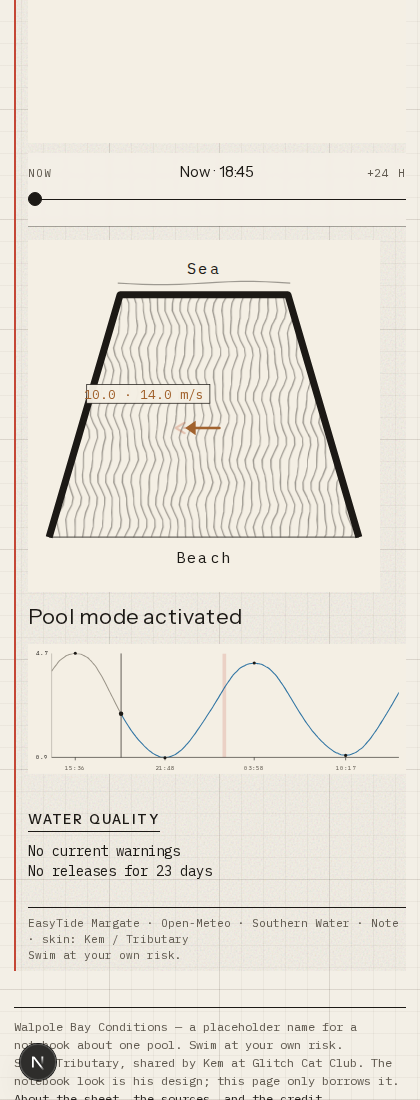
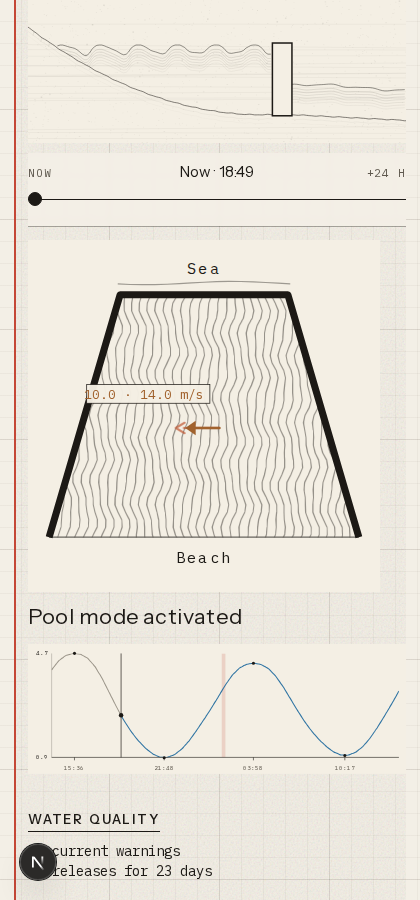
Fix sea crest wash masking and capture section QA properly
Clamp sea-mode wall-span strokes to the crest only, then mask the wall
body with opaque paper and outline after all water ink. Add a Playwright
script that waits for canvas ink before cropping section shots.

diff --git a/components/section-canvas.tsx b/components/section-canvas.tsx
@@ -178,36 +178,31 @@ function paint(
   const shore = waterlineU(still) ?? 0;
   const motion = chopMotion(section.chopLevel, 1);
 
-  const band = (u0: number, u1: number) => {
-    if (u1 - u0 < 0.08) return;
-    drawRuns(ctx, u0, u1, (u) => yOf(surface(u)), 1.55, 0.92);
-    for (let i = 1; i <= motion.lines; i++) {
-      const depth = 5 + i * (6 + section.chopLevel * 0.6);
-      const alpha = Math.max(0.1, 0.48 - i * 0.05);
-      drawRuns(ctx, u0, u1, (u) => yOf(surface(u)) + depth, 0.8, alpha);
-    }
-  };
-
-  band(Math.min(shore, WALL_U0), WALL_U0);
-  band(WALL_U1, RATIO_SUM);
-
   const wallX = xOf(WALL_U0);
   const wallW = xOf(WALL_U1) - wallX;
   const wallY = yOf(1);
   const wallH = yOf(-0.015) - wallY;
 
-  ctx.fillStyle = PAPER;
-  ctx.globalAlpha = 1;
-  ctx.fillRect(wallX, wallY, wallW, wallH);
+  /** Sea wash: schematic surface never dips through the wall body — only at/above crest. */
+  const crestSurface = (u: number) => Math.max(1, surface(u));
+  const ySurface = (u: number) => yOf(surface(u));
+  const yCrestWash = (u: number) => yOf(crestSurface(u));
 
-  if (section.mode === "sea") {
-    drawRuns(ctx, WALL_U0, WALL_U1, (u) => yOf(surface(u)), 1.35, 0.88);
+  const band = (u0: number, u1: number, crestOnly = false) => {
+    if (u1 - u0 < 0.08) return;
+    const yAt = crestOnly ? yCrestWash : ySurface;
+    drawRuns(ctx, u0, u1, yAt, crestOnly ? 1.35 : 1.55, crestOnly ? 0.9 : 0.92);
+    if (crestOnly) return;
     for (let i = 1; i <= motion.lines; i++) {
-      const depth = 4 + i * 4;
-      const alpha = Math.max(0.08, 0.38 - i * 0.06);
-      drawRuns(ctx, WALL_U0, WALL_U1, (u) => yOf(surface(u)) + depth, 0.75, alpha);
+      const depth = 5 + i * (6 + section.chopLevel * 0.6);
+      const alpha = Math.max(0.1, 0.48 - i * 0.05);
+      drawRuns(ctx, u0, u1, (u) => ySurface(u) + depth, 0.8, alpha);
     }
-  }
+  };
+
+  band(Math.min(shore, WALL_U0), WALL_U0);
+  band(WALL_U1, RATIO_SUM);
+  if (section.mode === "sea") band(WALL_U0, WALL_U1, true);
 
   stroke(ctx, chalkPoints(0, WALL_U0, 0), 1.75, 0.95);
   stroke(ctx, chalkPoints(WALL_U1, RATIO_SUM, 0), 1.75, 0.95);
@@ -251,11 +246,17 @@ function paint(
     ctx.globalAlpha = 1;
   }
 
-  ctx.strokeStyle = INK;
+  ctx.fillStyle = PAPER;
   ctx.globalAlpha = 1;
+  ctx.fillRect(wallX, wallY, wallW, wallH);
+  ctx.strokeStyle = INK;
   ctx.lineWidth = 4.6;
   ctx.lineJoin = "miter";
   ctx.strokeRect(wallX, wallY, wallW, wallH);
+
+  if (section.mode === "sea") {
+    drawRuns(ctx, WALL_U0, WALL_U1, yCrestWash, 1.4, 0.94);
+  }
 }
 
 export function SectionCanvas({
